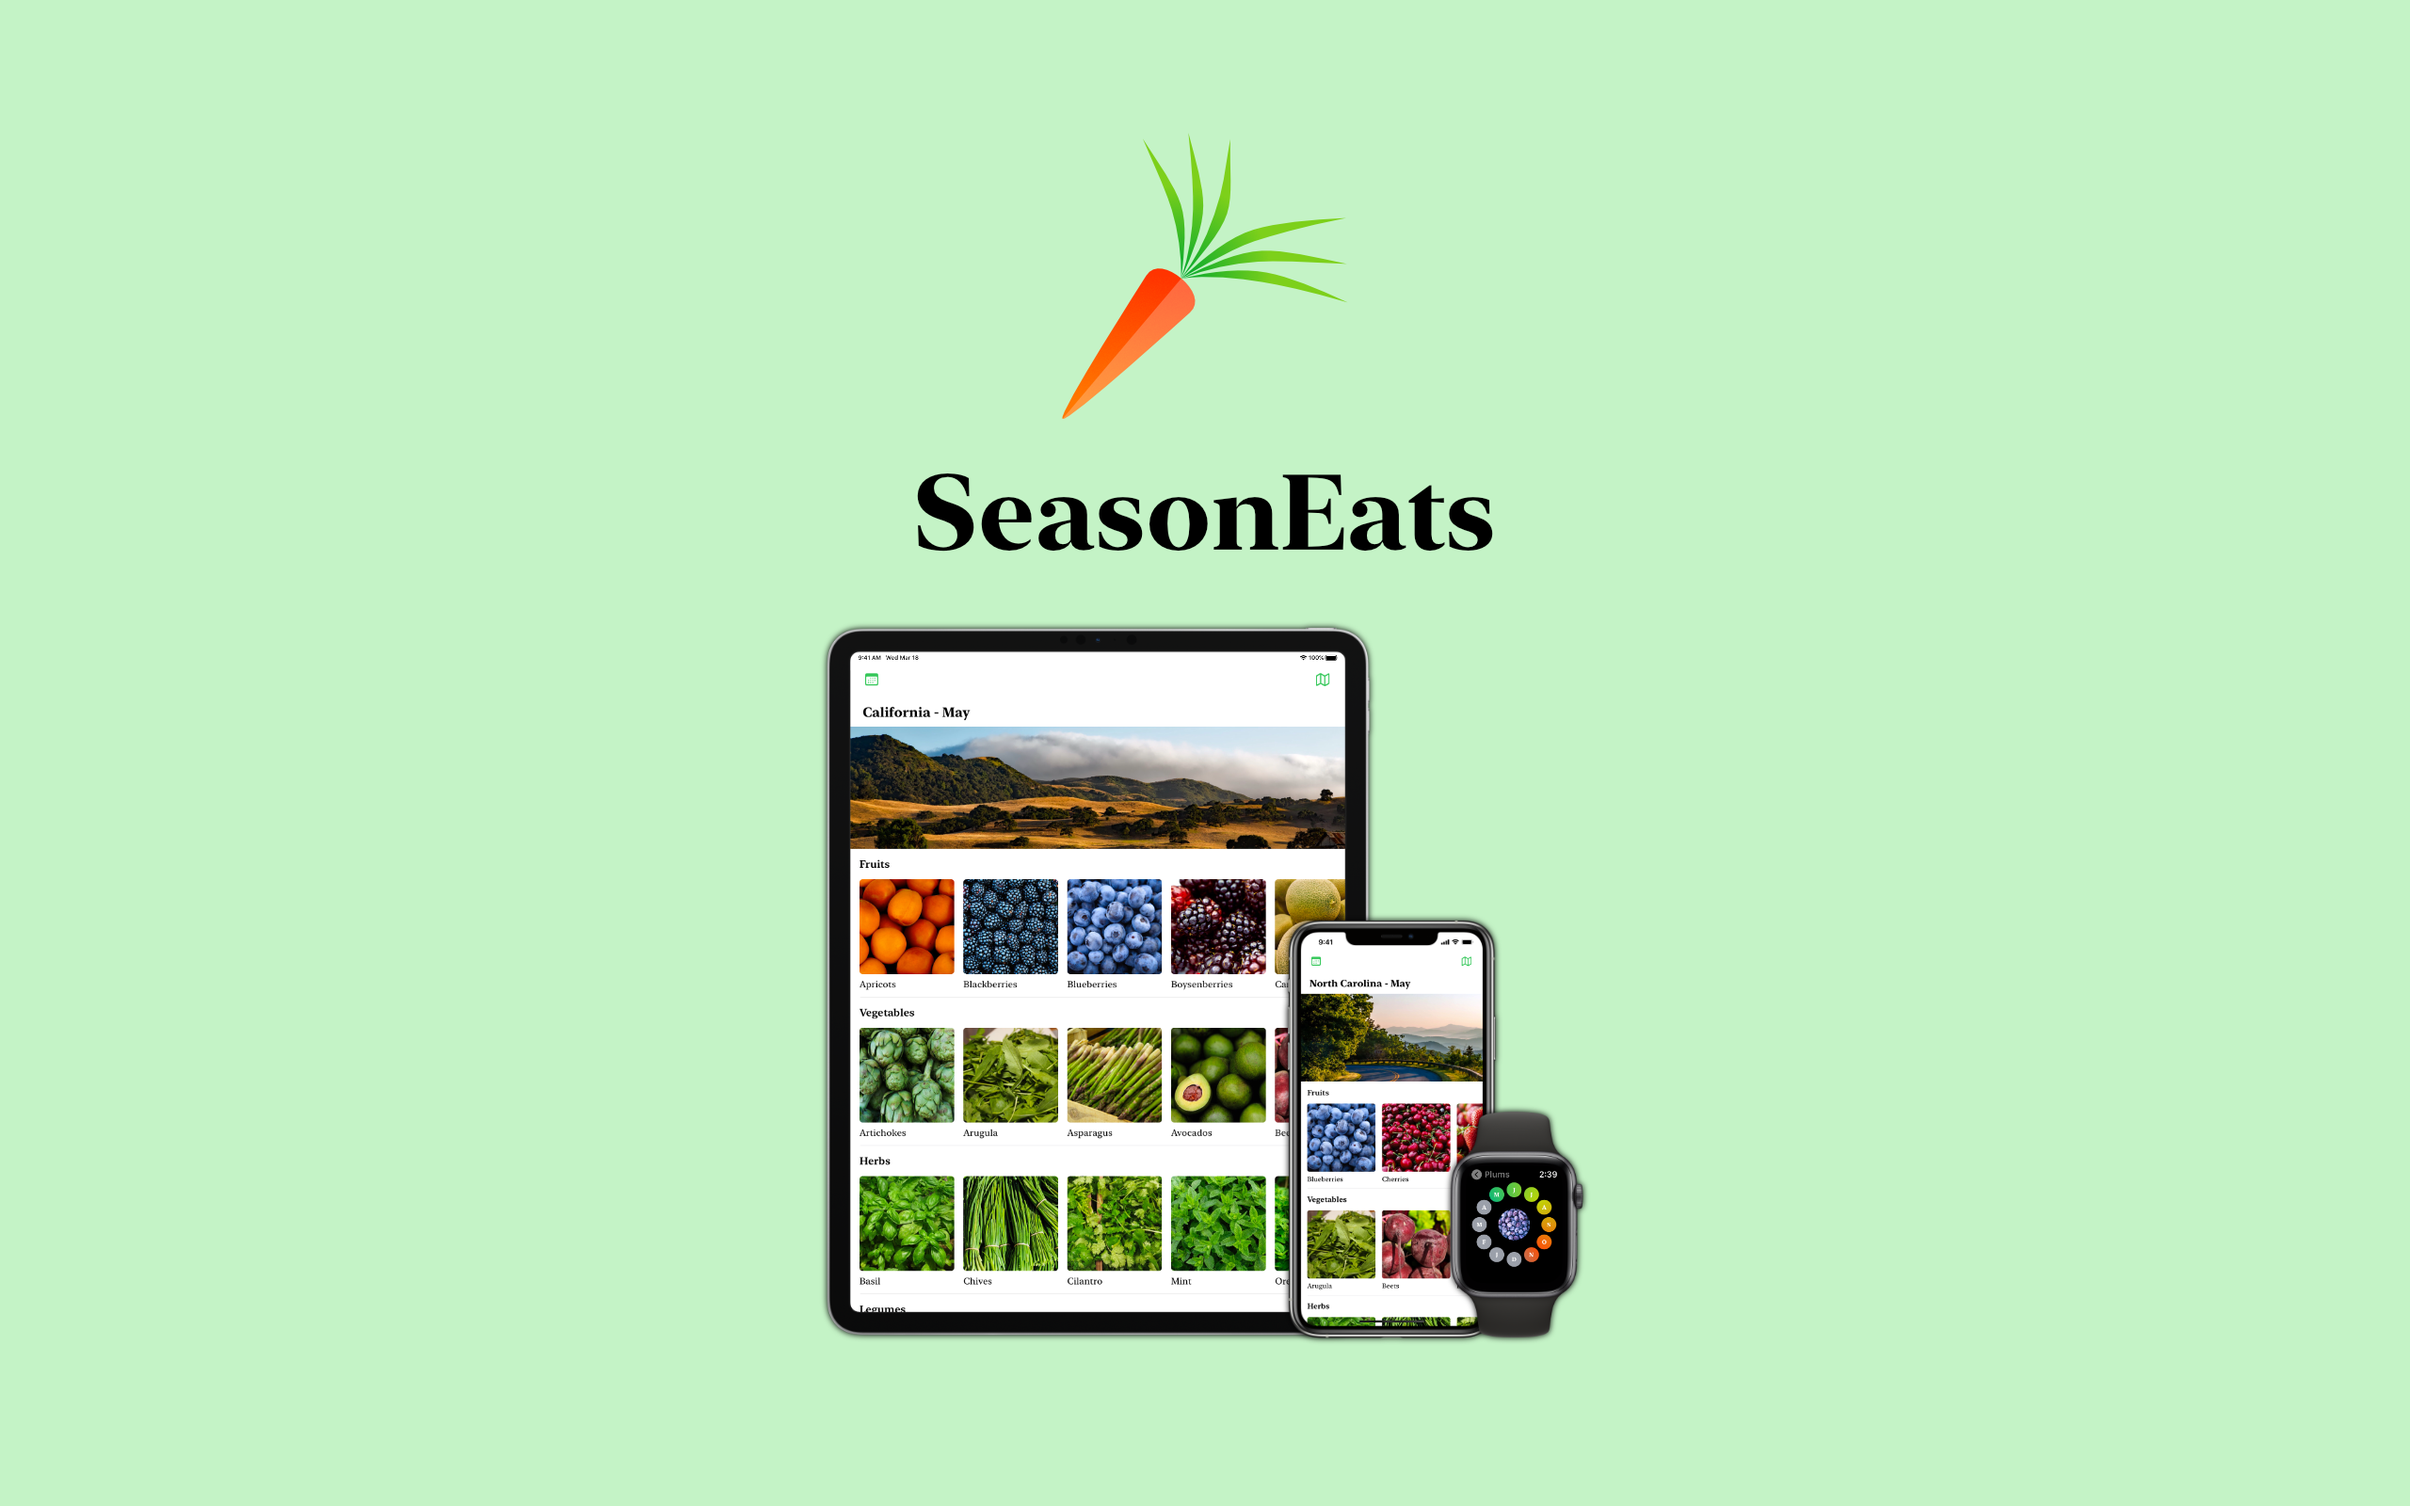
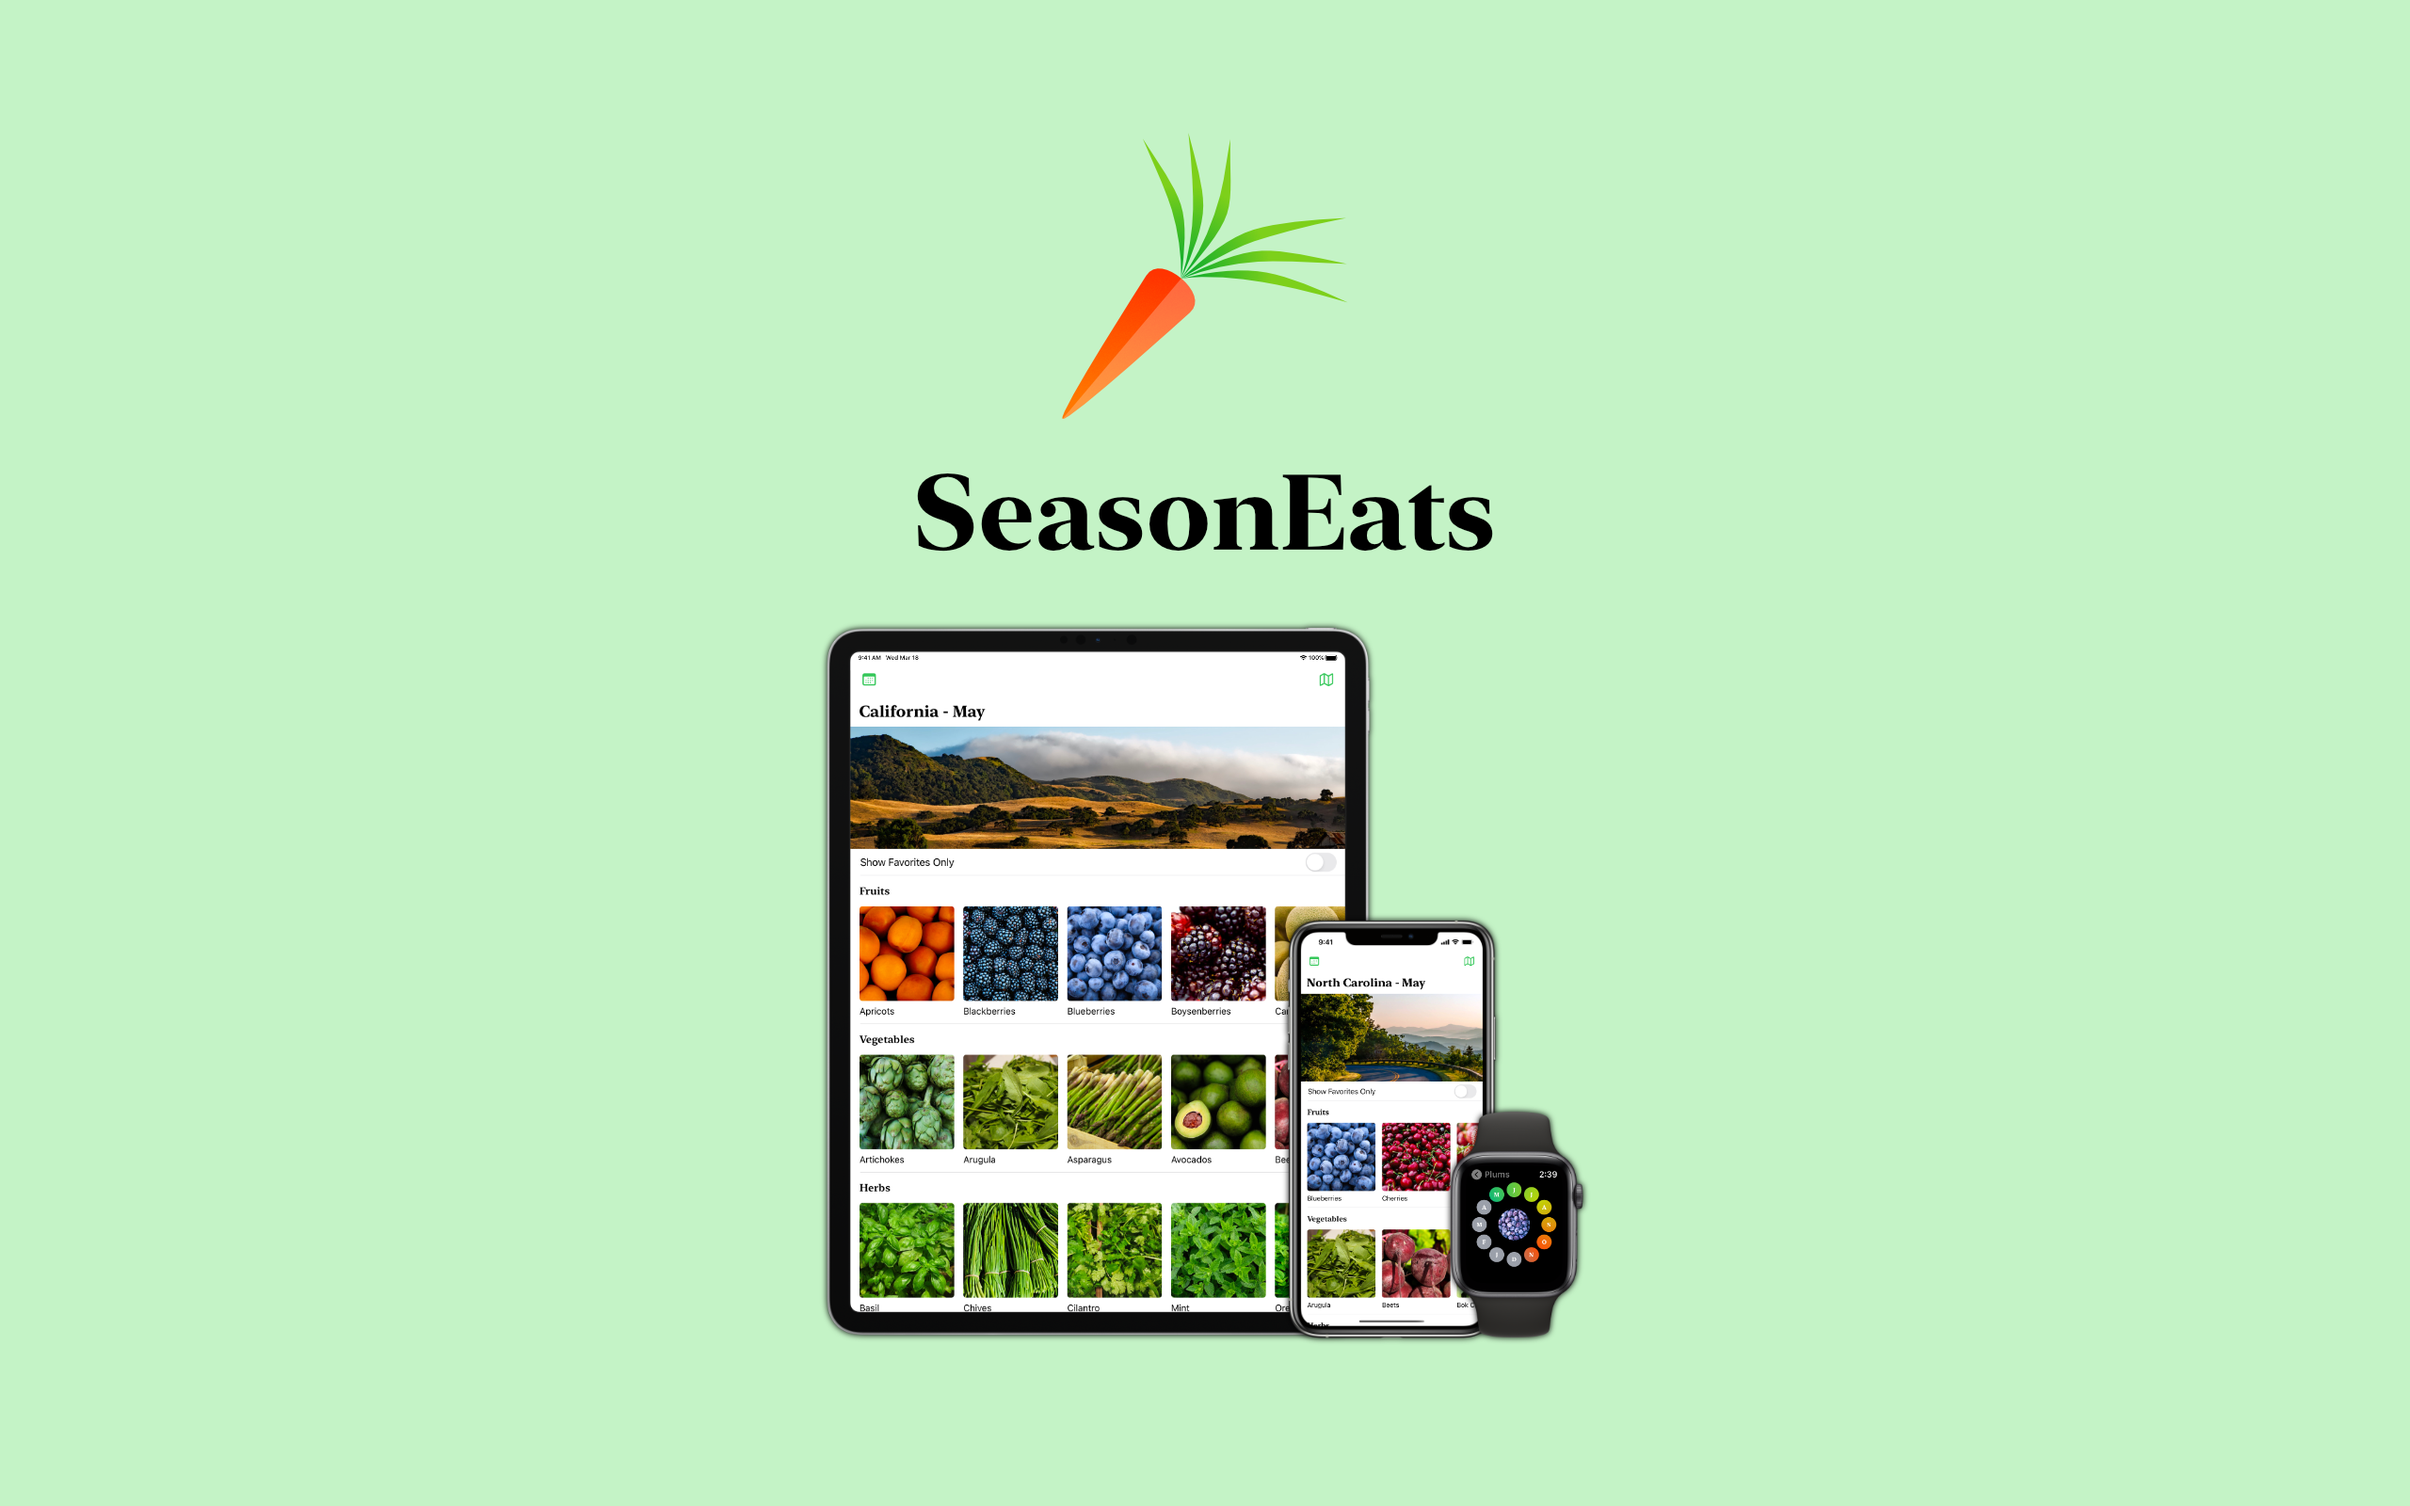
Updated SeasonEats for V1.2

Changed region(s): [[0.3438, 0.5625, 0.625, 0.9062], [0.375, 0.4688, 0.4062, 0.5]]

diff --git a/seasoneats.html b/seasoneats.html
@@ -26,7 +26,7 @@
     <section id="about">
         <div class="user-details">
             <h1>About</h1>
-            <p>SeasonEats provides a quick and easy way to see what produce is currently in season near you.</p>
+            <p>SeasonEats provides a quick and easy way to see what produce is currently in season near you. Featuring favorites, notifications and a companion watchOS app.</p>
             <p>Supporting over 130 items of produce, all 50 US states, and the United Kingdom SeasonEats has you covered. The app utilizes your location and the current month to elegantly display the produce that is currently in season near you.</p>
             <p>Additionally you can manually view other months and locations, tap on produce to show a calendar view for the produce over the whole year, or bring up a list of all produce in your location to quickly find the produce you are looking for. With the companion Apple Watch app you can quickly view what's in season where you currently are - great for on the go!</p>
             <p>Seasonality data has been cross-sourced from the most regarded sources in each location including State Agriculture Departments, Academic Institutions and Horticultural Societies.</p>
